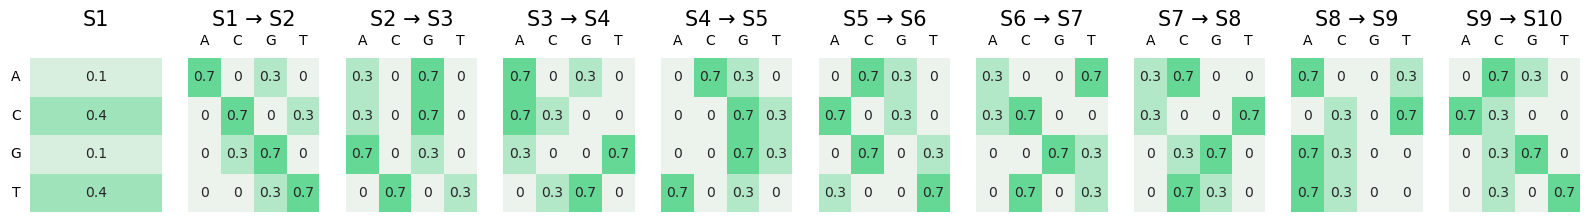
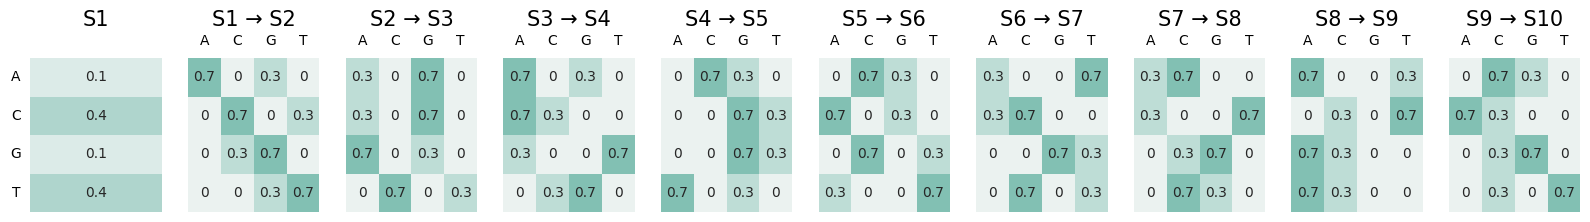
adjust color for each figure

diff --git a/external/simulation/GeneRateMarcov.py b/external/simulation/GeneRateMarcov.py
@@ -134,7 +134,7 @@ def visualize(path, lenlist, seed, complexityChoice):
                                 annot=True,
                                 vmin=0,
                                 vmax=1,
-                                cmap=sns.light_palette("#2ecc71", as_cmap=True),
+                                cmap=sns.color_palette("light:#5A9", as_cmap=True),
                                 cbar=False,
                                 xticklabels=[" "],
                                 yticklabels=["A","C","G","T"],
@@ -147,7 +147,7 @@ def visualize(path, lenlist, seed, complexityChoice):
                                 annot=True,
                                 vmin=0,
                                 vmax=1,
-                                cmap=sns.light_palette("#2ecc71", as_cmap=True),
+                                cmap=sns.color_palette("light:#5A9", as_cmap=True),
                                 cbar=False,
                                 xticklabels=["A","C","G","T"],
                                 yticklabels=False,
@@ -198,7 +198,7 @@ def drawMotif():
                                 annot=True,
                                 vmin=0,
                                 vmax=1,
-                                cmap=sns.light_palette("#2ecc71", as_cmap=True),
+                                cmap=sns.color_palette("light:#5A9", as_cmap=True),
                                 cbar=False,
                                 xticklabels=[" "],
                                 yticklabels=["A","C","G","T"],
@@ -213,7 +213,7 @@ def drawMotif():
                                     annot=True,
                                     vmin=0,
                                     vmax=1,
-                                    cmap=sns.light_palette("#2ecc71", as_cmap=True),
+                                    cmap=sns.color_palette("light:#5A9", as_cmap=True),
                                     cbar=False,
                                     xticklabels=["A","C","G","T"],
                                     yticklabels=False,
@@ -226,7 +226,7 @@ def drawMotif():
                                     annot=True,
                                     vmin=0,
                                     vmax=1,
-                                    cmap=sns.light_palette("#2ecc71", as_cmap=True),
+                                    cmap=sns.color_palette("light:#5A9", as_cmap=True),
                                     cbar=False,
                                     xticklabels=False,
                                     yticklabels=False,

diff --git a/scripts/SpeedCompare/DrawTheHistory.py b/scripts/SpeedCompare/DrawTheHistory.py
@@ -48,12 +48,12 @@ def DrawPic(lossDict, output_path, dataname, patience=50):
 
     """
 
-    fig, ax = plt.subplots(figsize=(6, 6))
+    fig, ax = plt.subplots(figsize=(8, 6))
     plt.rcParams["font.family"] = "Times New Roman"
-    color = {"Markonv-based network":"black", "convolution-based network":"blue",
-    "bonito":"blue","Markonv-based basecaller":"black"}
+    color = {"Markonv-based network":"silver", "convolution-based network":"lightcoral",
+    "bonito":"lightcoral","Markonv-based basecaller":"silver"}
 
-    validationColor = {"convolution-based network":"green","Markonv-based network":"red"}
+    validationColor = {"convolution-based network":"mediumslateblue","Markonv-based network":"aquamarine"}
 
     for mode in lossDict.keys():
         print(mode)
@@ -72,7 +72,7 @@ def DrawPic(lossDict, output_path, dataname, patience=50):
     plt.legend(prop={'size': 12})
     # plt.show()
     plt.tight_layout()
-    plt.savefig(output_path+".jpg",dpi=400)
+    plt.savefig(output_path+".png",dpi=400)
     plt.close()
     print(dataname)
 

diff --git a/scripts/simulation2merShuffle/kernel2motif.py b/scripts/simulation2merShuffle/kernel2motif.py
@@ -115,7 +115,7 @@ def plot(loadpath, savepath, MTMreal):
                         fmt="s",
                         vmin=0,
                         vmax=1,
-                        cmap=sns.light_palette("#2ecc71", as_cmap=True),
+                        cmap=sns.color_palette("light:#5A9", as_cmap=True),
                         cbar=False,
                         xticklabels=[" "],
                         yticklabels=["A","C","G","T"],
@@ -130,7 +130,7 @@ def plot(loadpath, savepath, MTMreal):
                         fmt="s",
                         vmin=0,
                         vmax=1,
-                        cmap=sns.light_palette("#2ecc71", as_cmap=True),
+                        cmap=sns.color_palette("light:#5A9", as_cmap=True),
                         cbar=False,
                         xticklabels=["A","C","G","T"],
                         yticklabels=False,

diff --git a/scripts/HOCNNLB/Compare.py b/scripts/HOCNNLB/Compare.py
@@ -69,6 +69,7 @@ def Draw(path, ModeltypeDict):
     """
 
     # draw box plot
+    sns.set_palette(sns.color_palette("ch:start=.2,rot=-.3"))
     Pddict = pd.DataFrame(ModeltypeDict)
     Pddict.to_csv("./test.csv")
     cols = Pddict.columns.tolist()
@@ -79,9 +80,9 @@ def Draw(path, ModeltypeDict):
 
     # Pddict.drop()
     Pddict = Pddict[cols]
-    plt.figure(figsize=(10, 8))
+    plt.figure(figsize=(12, 8))
     plt.rc('font', family='Times New Roman')
-    ax = sns.boxplot(data=Pddict,saturation=0.4)
+    ax = sns.boxplot(data=Pddict,saturation=0.4,palette =sns.color_palette("light:#5A9"))
     ax.set_xticklabels(ax.get_xticklabels(), rotation=0,fontsize= 13)
     plt.ylim(0.5, 1.09)
     plt.ylabel("AUROC",fontsize= 20)

diff --git a/scripts/bonito/Compare_param.py b/scripts/bonito/Compare_param.py
@@ -1,0 +1,10 @@
+# -*- coding: utf-8 -*-
+import numpy as np
+import matplotlib.pyplot as plt
+import os
+import pickle
+import glob
+import pandas as pd
+import seaborn as sns
+import pdb
+plt.switch_backend('agg')
